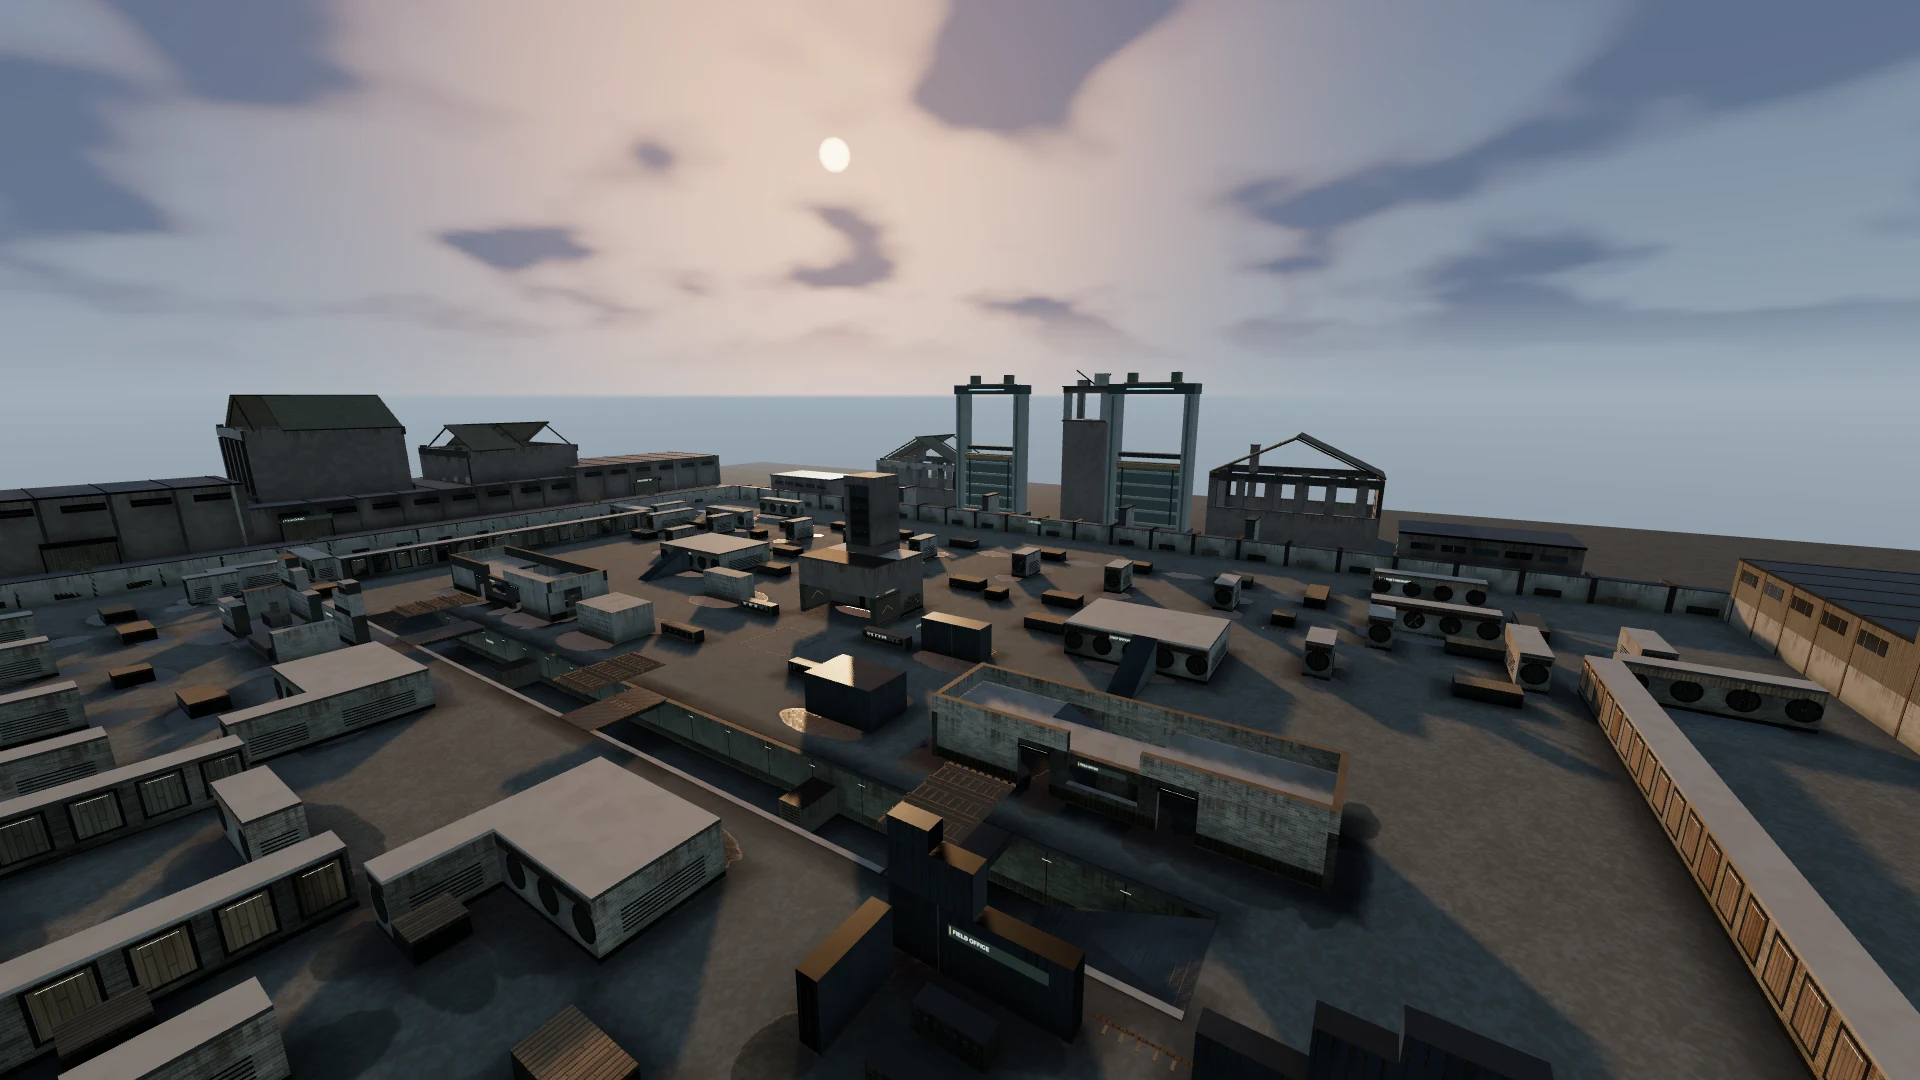
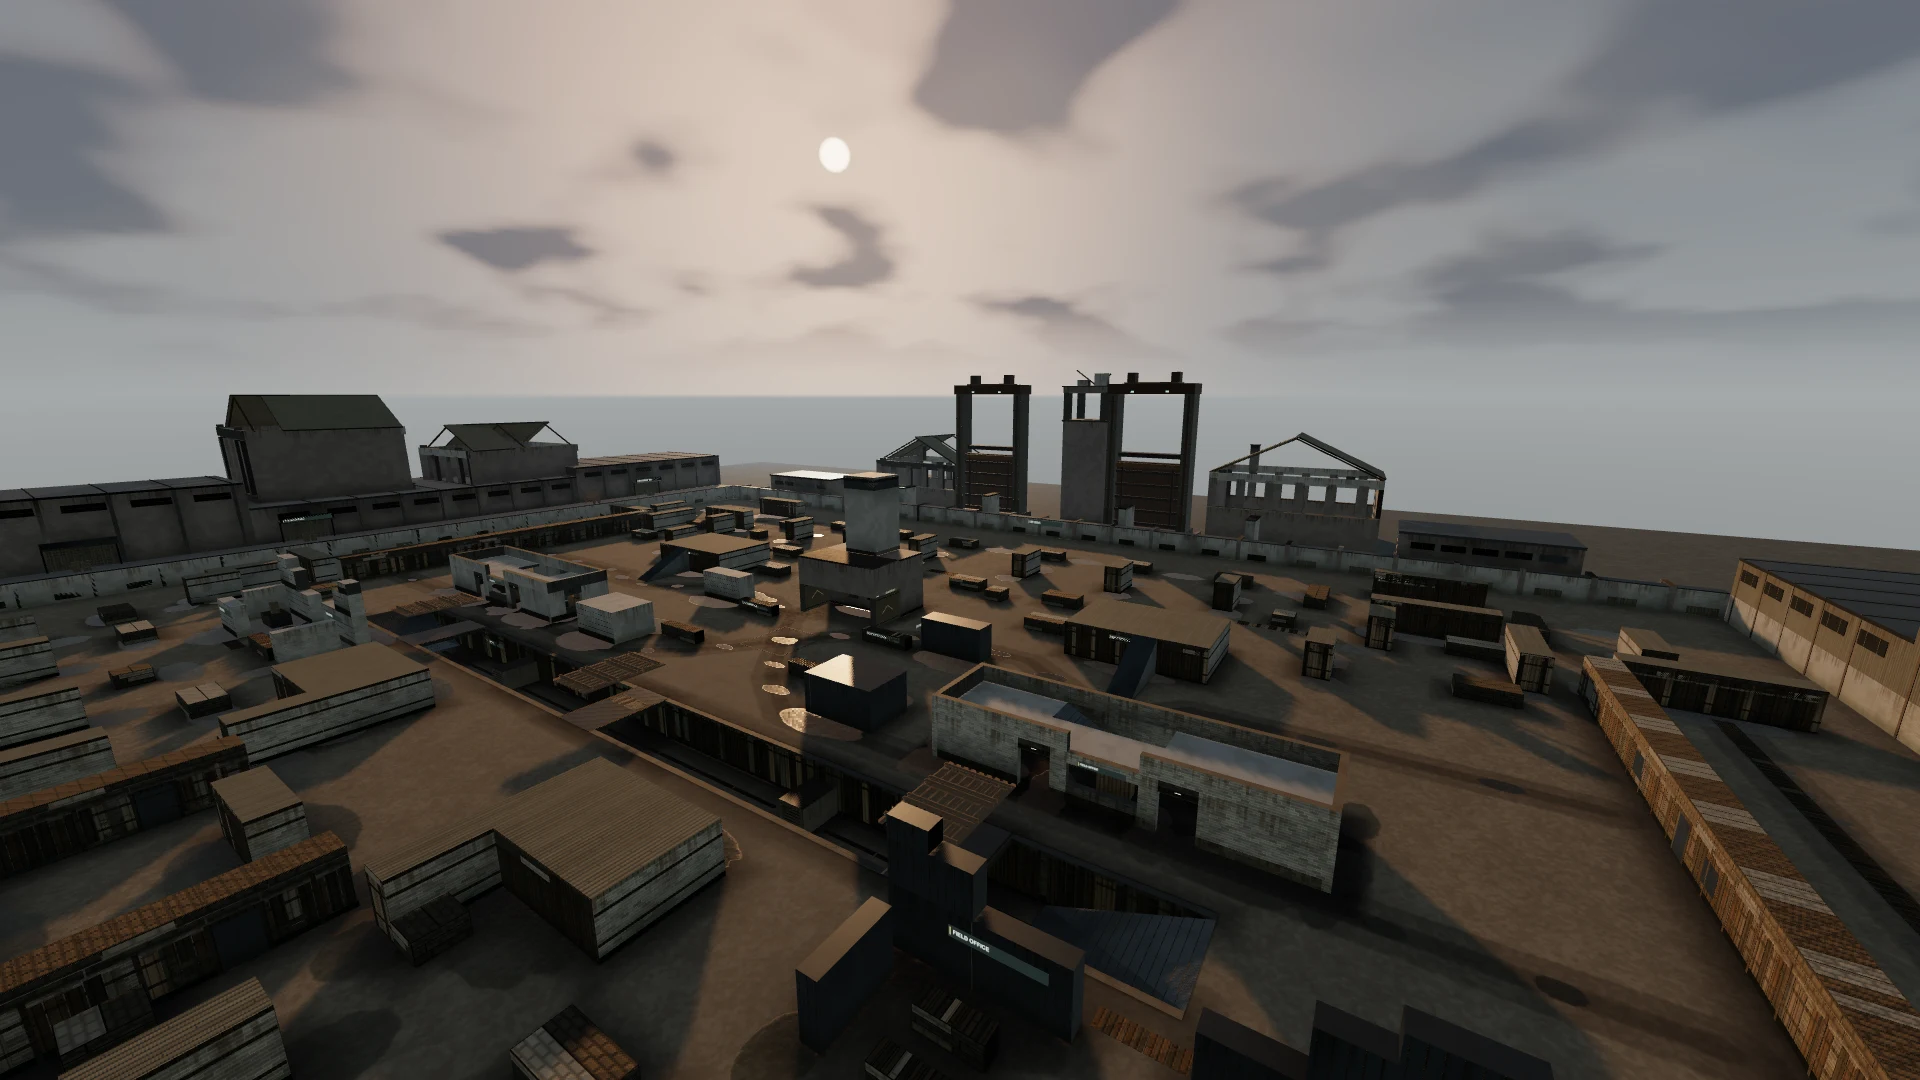
ironsight/ui: Claude round 5 - Undertow menu card shows the trench line
The Undertow card in the deployment menu still showed the modern plant (turbine fans,
stripes, pale concrete) after the map was converted. Re-rendered from the current map
through the recorded capture path, same fixed camera and 1920x1080 framing:
undertow-vista.webp 166,926 -> 164,580 bytes; provenance appended to
public/assets/README.md. The Relay card already matched a fresh render and is
unchanged; switchyard-vista.webp is left to the world lane, which is converting that map.

The combat inspector page expected five kill-feed rows while the HUD deliberately keeps
four (R-L20). hud.ts now exports KILL_FEED_ROWS = 4 and the check reads it, so the page
loads again. The network page's delay checks are behaviour and were left alone.

Lane gates passed (hitch run once: PASS, 0 recompiles).

diff --git a/apps/ironsight/client/hud.ts b/apps/ironsight/client/hud.ts
@@ -26,6 +26,8 @@ const TEAM_COLOR = GAME.teams.colors;
 const T = GAME.text;
 const [UI_RED, UI_BLUE] = GAME.teams.uiText;
 const WEAPONS = GAME.weapons;
+/** Kill-feed rows kept on screen (R-L20: four readable entries, separate from server messages). */
+export const KILL_FEED_ROWS = 4;
 
 export interface ResultRoster {
   rows: { name: string; k: number; d: number; team: number; isMe: boolean }[];
@@ -614,7 +616,7 @@ export class Hud {
     node.innerHTML = `<span class="name" style="color:${color}">${details.localKill ? `<span class="tag">${F.you}</span>` : ''}${esc(killer)}</span><span class="cause"><strong>${esc(weapon)}</strong>${cause}</span><span class="name target">${details.localVictim ? `<span class="tag">${F.you}</span>` : ''}${esc(victim)}</span>${assistName ? `<span class="assist">${F.assist} / ${esc(assistName)}</span>` : ''}`;
     this.feed.prepend(node);
     this.kills.push({ node, born: performance.now() });
-    while (this.kills.length > 4) this.kills.shift()?.node.remove();
+    while (this.kills.length > KILL_FEED_ROWS) this.kills.shift()?.node.remove();
     if (details.localKill && !details.localVictim) {
       const ambush = details.medal === 'ambush';
       this.elimination.innerHTML = `<span class="confirm${ambush ? ' ambush' : ''}">${ambush ? FIELD_UI_COPY.ambush : '처치 확인'}</span><span class="target">${esc(victim)}</span><span class="detail">${ambush ? '후방 공격 / ' : ''}${esc(weapon)}${part === 'head' ? ' / 헤드샷' : ''}</span>`;

diff --git a/apps/ironsight/client/match-inspect.ts b/apps/ironsight/client/match-inspect.ts
@@ -1,4 +1,4 @@
-import { Hud } from './hud.js';
+import { Hud, KILL_FEED_ROWS } from './hud.js';
 import { SettingsStore } from './settings.js';
 import type { ArenaState } from '../src/schema.js';
 import { intermissionStatusLabel } from './intermission.js';
@@ -133,7 +133,8 @@ export function startMatchInspector(): void {
     const feed = document.querySelector('#feed')!;
     const confirm = document.querySelector<HTMLElement>('#elimination')!;
     for (let i = 0; i < 8; i++) hud.addKill('Other', '<img src=x onerror=alert(1)>', 'body', null);
-    checks.bounded = feed.children.length === 5;
+    // The HUD caps the feed at KILL_FEED_ROWS (4 since the R-L20 field skin); follow it, not a literal.
+    checks.bounded = feed.children.length === KILL_FEED_ROWS;
     checks.escaped = !feed.querySelector('img') && feed.textContent!.includes('<img');
     checks.remoteSilent = confirm.textContent === '';
     hud.addKill('Other','Victim','body',1,undefined,{medal:'ambush'});

diff --git a/apps/ironsight/AAA-PLAN-UI.md b/apps/ironsight/AAA-PLAN-UI.md
@@ -64,6 +64,36 @@ Session 1 failures below remain historical receipts. Session 2 closes the weapon
 
 ## Session log
 
+### Session 11 - 2026-09-23: WW1 menu vista refresh and combat inspector feed cap
+
+Scope: UI lane plus the round-5 grants: `public/assets/{relay,undertow}-vista.webp`, their README provenance, and `client/match-inspect.ts`. First I merged `recovery/ironsight-ww1-20260912` (merge commit 327147e, no conflicts). No commit, push or deploy. `switchyard-vista.webp` was not touched.
+
+#### What changed
+
+- **Vistas.** I re-rendered both from the merged tree through the existing path (`inspect-map.mjs` fixed vista camera, 1920x1080, WebP q88) and compared each with the shipped file.
+  - **Relay:** the fresh render matches the shipped image (Signal Station brick, lattice mast, ruined gables), so the file is unchanged.
+  - **Undertow:** the shipped image predated World Session 5: turbine and fan faces, stripes, pale concrete. It was refreshed with `--shots undertow-vista --write-vista`. The new file is 164,580 bytes (was 166,926; -2,346), same dimensions and framing.
+  - The provenance is appended to `public/assets/README.md` in a `# ui` block.
+- **Combat inspector.** `client/hud.ts` now exports `KILL_FEED_ROWS = 4` (the R-L20 cap) and uses it for the feed. `client/match-inspect.ts` `bounded` checks against that constant instead of the literal 5, with a comment explaining why. `match-combat` now reaches `__inspectReady`. The network page's `low`/`spikeIgnored` behaviour checks were left as they are.
+
+#### Evidence (`.inspect/ui-r5/`)
+
+- Source files: `before/*.webp` and `after/*.webp`.
+- Fresh comparison renders: `../ui-r5-probe-{vista,undertow-vista}.png`.
+- Menu cards (`cards.mjs`, real menu with the TDM/DOM card selected): `{before,after}/{1920,1280}-menu-{relay,undertow}.png`. The before set served the old Undertow file.
+- Inspector: `inspector-after.json` (combat ready; network still fails only `low`, `spikeIgnored`).
+
+#### Gates
+
+- typecheck PASS; tests PASS (Vitest 202 files / 1671 passed, 9 preexisting skips, on the merged tree; Node 92/92); build:client PASS; audit:assets PASS.
+- inspect-map relay + practice-two PASS, `errors: []`.
+- hitch-probe (advisory, once): `hitchGate: PASS`, 2 deaths, 0 recompiles, 0 errors.
+- Bytes: assetBytes 36,695,359 and publicBytes 48,725,929 after the merge. The UI share is the -2,346 on the Undertow vista plus a few hundred bytes of bundle.
+
+#### Open questions
+
+- The Undertow vista is dark at the vista camera because of its dusk grade (as it was before). Legibility on the card relies on the existing scrim; no change was made to it.
+
 ### Session 10 - 2026-09-23: Last English HUD labels and a working results inspector
 
 Scope: UI lane plus `client/match-inspect.ts` (granted for this round only). No commit, push or deploy. Base: 98d8ac9.

diff --git a/apps/ironsight/public/assets/README.md b/apps/ironsight/public/assets/README.md
@@ -1846,3 +1846,13 @@ then Blender 4.5 `--factory-startup --background --python tools/bake-architectur
 Audit: `.inspect/world-r1/geometry-audit.json` (PASS); 84,916 triangles,
 6,214,520 bytes (+1,332,908), SHA256 21c95d71...cee70. No new texture file.
 <!-- /world -->
+
+<!-- # ui -->
+UI Session 11 (2026-09-23): `undertow-vista.webp` refreshed after World Session 5
+(timber revetments/duckboards) reached the integration branch; the Session 4 capture
+predated it. Same fixed vista camera, 1920 x 1080, WebP quality 88, production
+renderer. Reproduce with `node scripts/inspect-map.mjs --url http://localhost:8804
+--shots undertow-vista --prefix ui-r5-write --write-vista`. 164,580 bytes (-2,346),
+SHA256 a4b96ca4...87872. `relay-vista.webp` re-rendered for comparison matches the
+current Signal Station map and is unchanged.
+<!-- /ui -->
